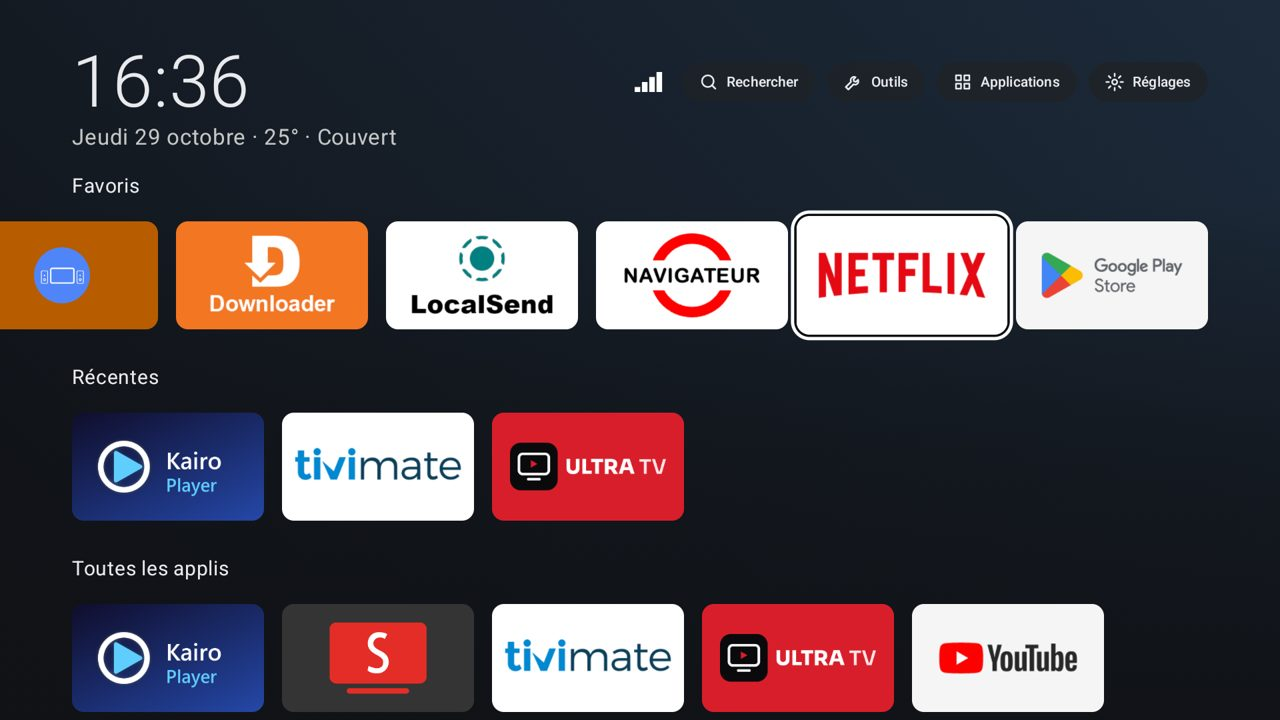
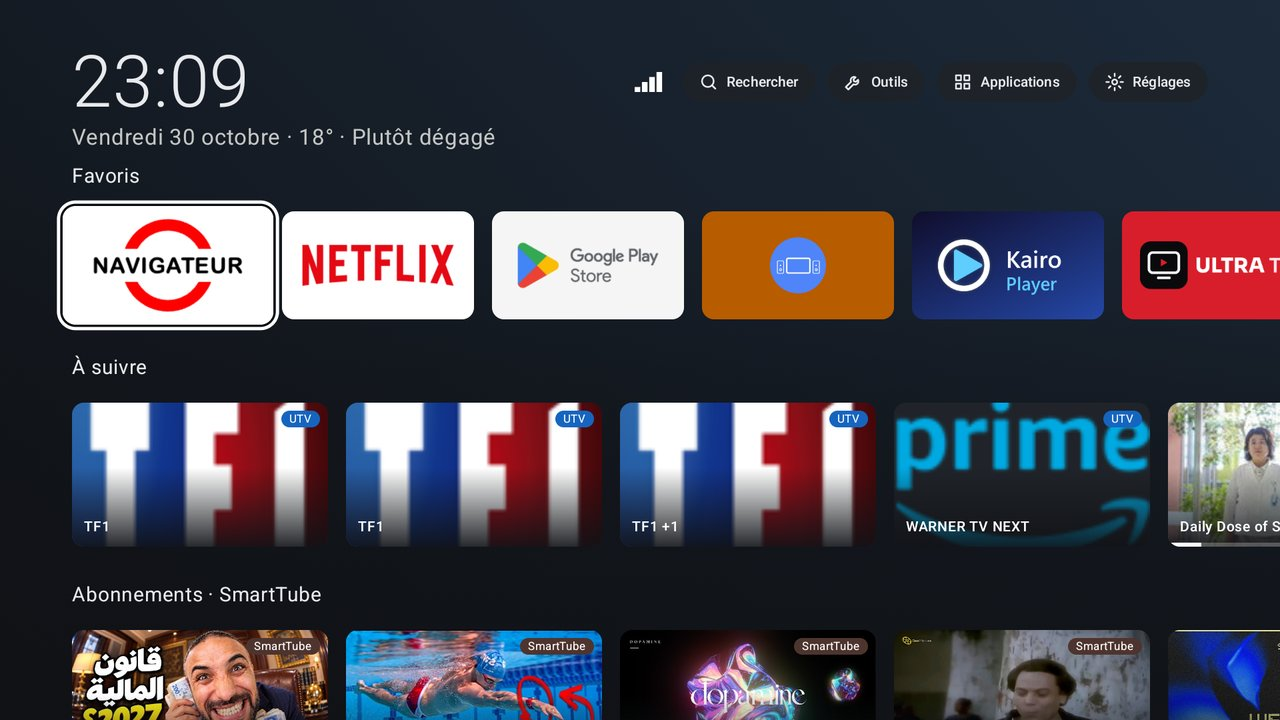
Accueil : À suivre et recommandations juste sous les favoris, comme Google TV

diff --git a/app/src/main/java/com/vantaflow/kairo/home/HomeScreen.kt b/app/src/main/java/com/vantaflow/kairo/home/HomeScreen.kt
@@ -252,6 +252,31 @@ fun HomeScreen(
                     }
                     }
                 }
+                // Comme Google TV : « À suivre » et les recommandations juste sous les favoris,
+                // nos rangées (applis, outils) ensuite.
+                if (state.watchNext.isNotEmpty()) {
+                    key("watch-next") {
+                        CompositionLocalProvider(LocalBringIntoViewSpec provides rowSpec) {
+                            RecoRow("À suivre", state.watchNext, appLabels, onProgramClick, Modifier.alignRowOnFocus()) {
+                                heroProgram.value = it
+                            }
+                        }
+                    }
+                }
+                state.recoRows.forEach { channel ->
+                    key("channel-${channel.id}") {
+                    val app = appLabels[channel.packageName]
+                    CompositionLocalProvider(LocalBringIntoViewSpec provides rowSpec) {
+                        RecoRow(
+                            title = if (app != null) "${channel.name} · $app" else channel.name,
+                            programs = channel.programs,
+                            appLabels = appLabels,
+                            onClick = onProgramClick,
+                            modifier = Modifier.alignRowOnFocus(),
+                        ) { heroProgram.value = it }
+                    }
+                    }
+                }
                 if (state.liveChannels.isNotEmpty()) {
                     key("live-tv") {
                         CompositionLocalProvider(LocalBringIntoViewSpec provides rowSpec) {
@@ -292,29 +317,6 @@ fun HomeScreen(
                         CompositionLocalProvider(LocalBringIntoViewSpec provides rowSpec) {
                             OurAppsRow(ourApps, ourAppStates, ourAppUpdates, onInstallOurApp, Modifier.alignRowOnFocus()) { heroProgram.value = null }
                         }
-                    }
-                }
-                if (state.watchNext.isNotEmpty()) {
-                    key("watch-next") {
-                        CompositionLocalProvider(LocalBringIntoViewSpec provides rowSpec) {
-                            RecoRow("À suivre", state.watchNext, appLabels, onProgramClick, Modifier.alignRowOnFocus()) {
-                                heroProgram.value = it
-                            }
-                        }
-                    }
-                }
-                state.recoRows.forEach { channel ->
-                    key("channel-${channel.id}") {
-                    val app = appLabels[channel.packageName]
-                    CompositionLocalProvider(LocalBringIntoViewSpec provides rowSpec) {
-                        RecoRow(
-                            title = if (app != null) "${channel.name} · $app" else channel.name,
-                            programs = channel.programs,
-                            appLabels = appLabels,
-                            onClick = onProgramClick,
-                            modifier = Modifier.alignRowOnFocus(),
-                        ) { heroProgram.value = it }
-                    }
                     }
                 }
             }

diff --git a/docs/index.html b/docs/index.html
@@ -363,7 +363,7 @@
       <figure><img src="assets/player-watchnext.jpg" alt="Kairo Player dans À suivre" loading="lazy"><figcaption>Kairo Player : reprise dans « À suivre »</figcaption></figure>
       <figure><img src="assets/onboarding-step.jpg" alt="Accueil animé : une étape" loading="lazy"><figcaption>Accueil animé : chaque étape se coche toute seule</figcaption></figure>
       <figure><img src="assets/onboarding-theme.jpg" alt="Accueil animé : choix du thème" loading="lazy"><figcaption>Choix du thème, appliqué en direct</figcaption></figure>
-      <figure><img src="assets/home.jpg" alt="Accueil" loading="lazy"><figcaption>Accueil : favoris, toutes les applis, À suivre</figcaption></figure>
+      <figure><img src="assets/home.jpg" alt="Accueil" loading="lazy"><figcaption>Accueil : favoris, puis À suivre et les recommandations</figcaption></figure>
       <figure><img src="assets/reco-rows.jpg" alt="Rangées de recommandations" loading="lazy"><figcaption>Rangées de recommandations des applis</figcaption></figure>
       <figure><img src="assets/settings-theme.jpg" alt="Réglages du thème" loading="lazy"><figcaption>Thèmes et personnalisation</figcaption></figure>
       <figure><img src="assets/move.jpg" alt="Déplacer un favori" loading="lazy"><figcaption>Déplacer un favori, comme sur Google TV</figcaption></figure>

diff --git a/README.md b/README.md
@@ -33,7 +33,7 @@ Les box Android TV d'entrée de gamme (2 Go de RAM, processeur 32 bits) rament s
 ## Fonctions
 
 **Accueil**
-- Favoris en tête, rangée **Récentes** (dernières applis ouvertes, désactivable), « Toutes les applis », puis **À suivre** et les rangées de recommandations publiées par vos applis (Netflix, YouTube, SmartTube, TiviMate…).
+- Comme Google TV : favoris en tête, puis **À suivre** et les rangées de recommandations publiées par vos applis (YouTube, SmartTube, Ultra TV, TiviMate…), puis **Récentes** (désactivable), « Toutes les applis » et les outils.
 - **Box avec tuner TV ou entrées HDMI** : rangées **Chaînes TV** (logo, numéro, ouverture directe dans l'appli TV) et **Entrées**, affichées seulement si la box en a.
 - **Fond « héros »** : l'affiche du contenu sélectionné, floutée et fondue en dégradé, comme sur Google TV.
 - Heure synchronisée sur un serveur de temps (NTP), date et **météo** (Open-Meteo, position par IP ou ville).
